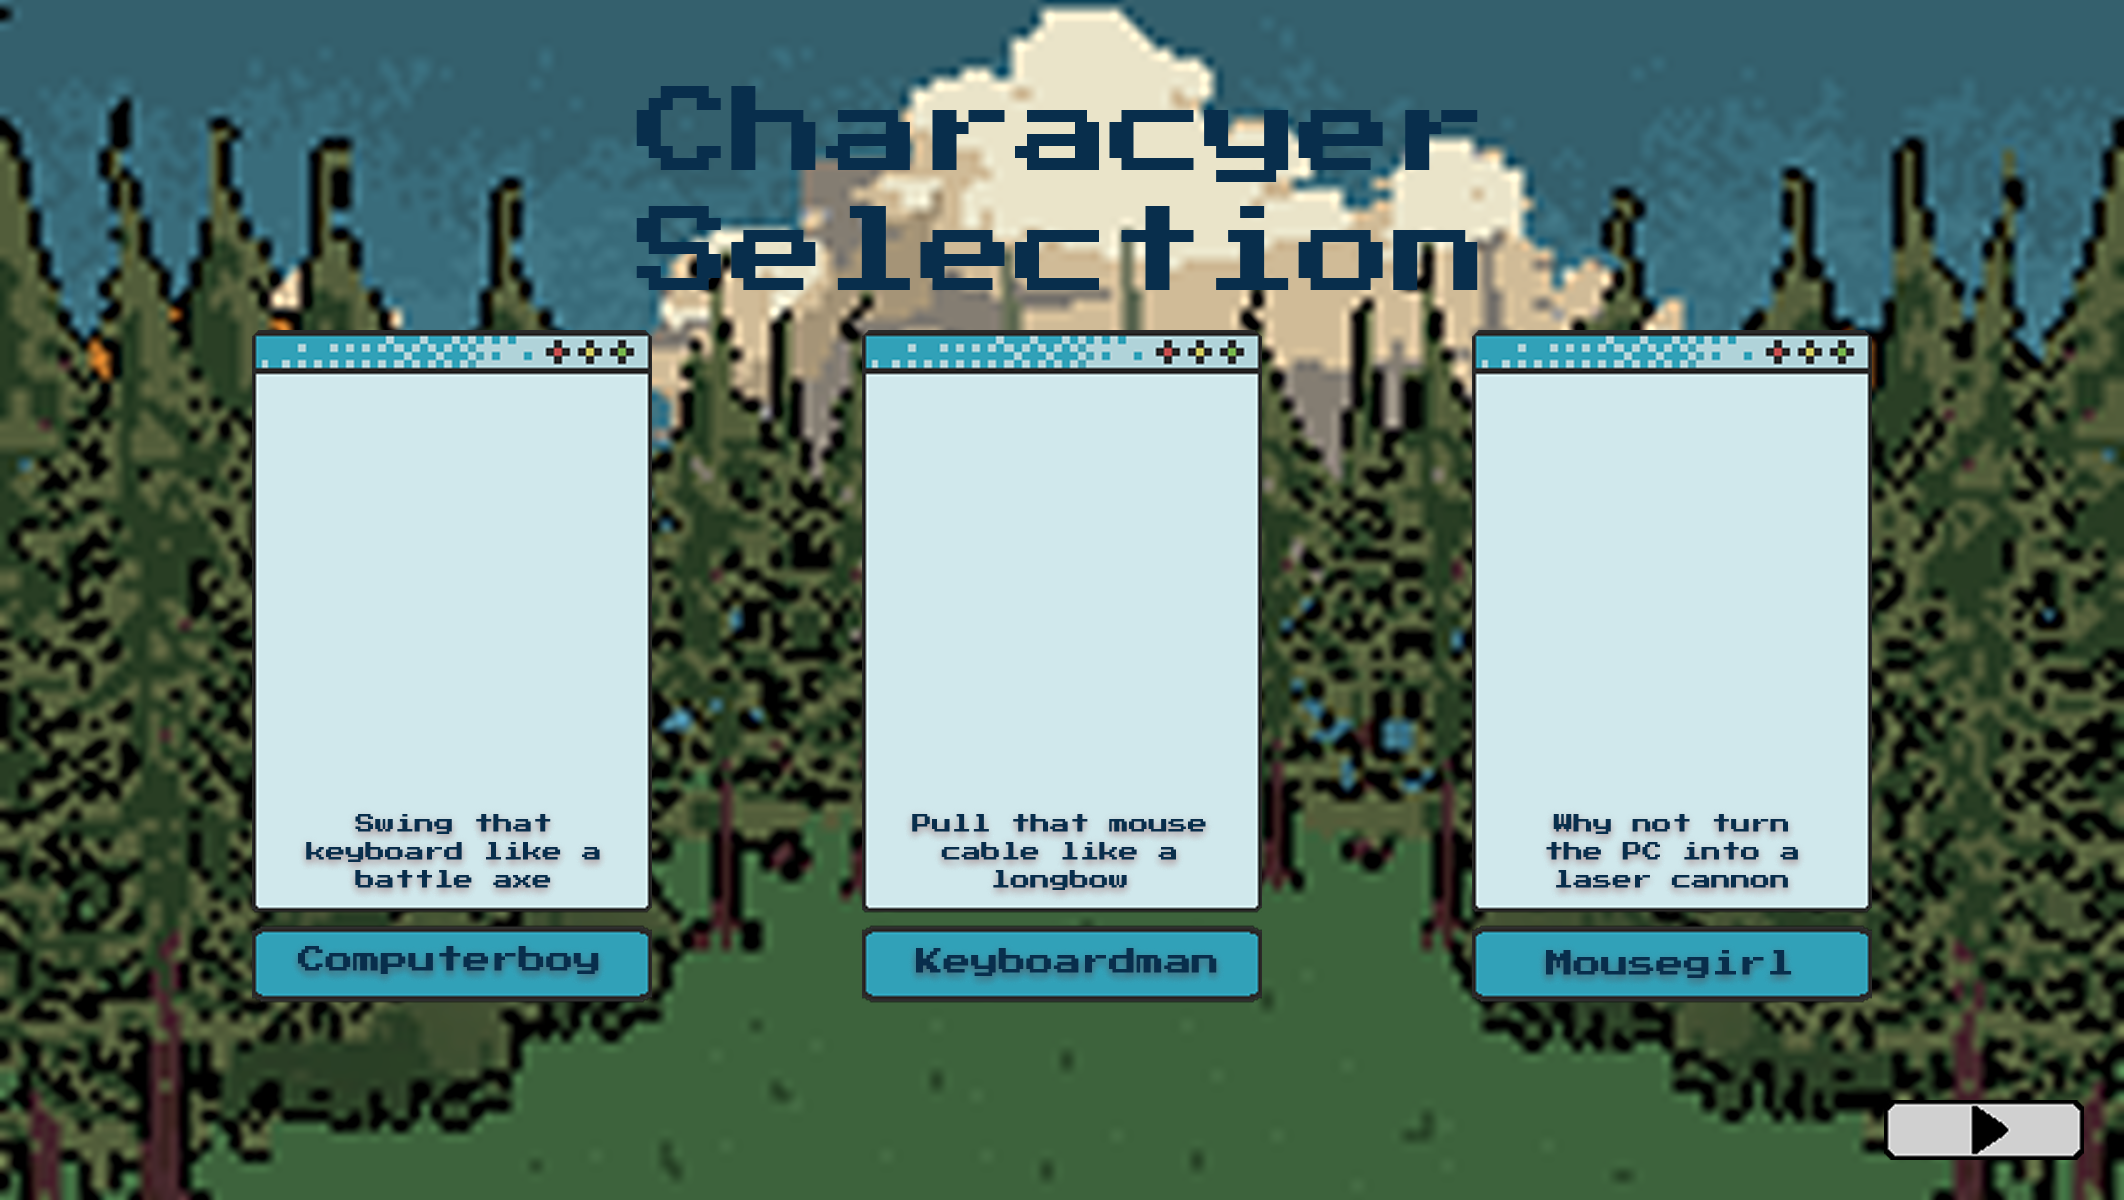
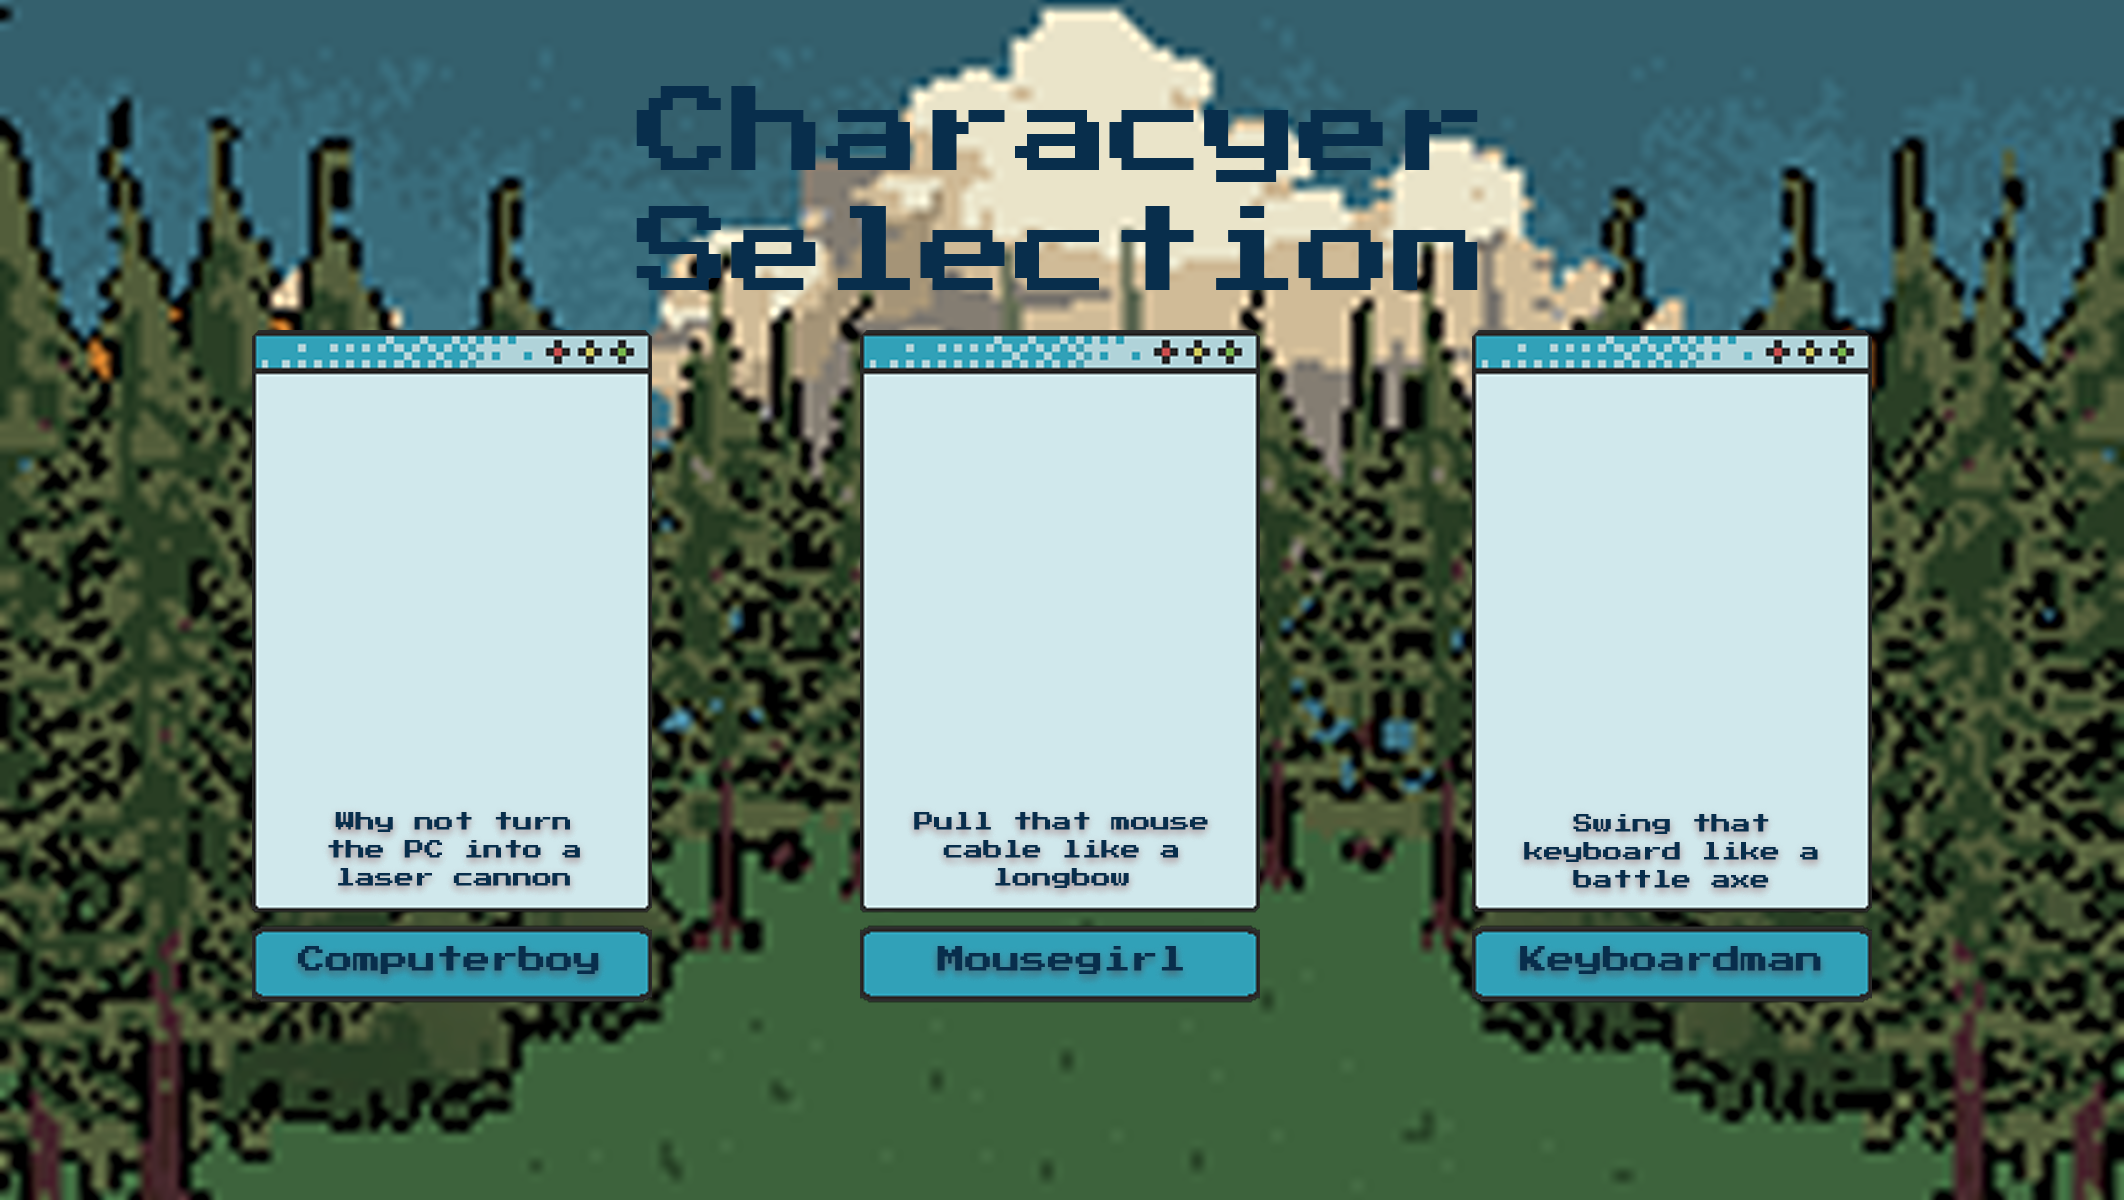
update

diff --git a/docs/Function.js b/docs/Function.js
@@ -716,37 +716,7 @@ function displayStoryPage5() {
 }
 
 function displayVictoryPage1() {
-  image(story1, 0, 0, width, height);
-
-  buttonW = 100;
-  buttonH = 30;
-  buttonX = width - buttonW - 20; // 距离右侧 20 像素
-  buttonY = height - buttonH - 20; // 距离底部 20 像素
-  fill(0, 0, 255); // 按钮颜色（蓝色）
-  rect(buttonX, buttonY, buttonW, buttonH, 10); // 圆角按钮
-
-  fill(255); // 文字颜色（白色）
-  textSize(15);
-  text("Next", buttonX + buttonW / 2, buttonY + buttonH / 2);
-}
-
-function displayVictoryPage2() {
-  image(story2, 0, 0, width, height);
-
-  buttonW = 100;
-  buttonH = 30;
-  buttonX = width - buttonW - 20; // 距离右侧 20 像素
-  buttonY = height - buttonH - 20; // 距离底部 20 像素
-  fill(0, 0, 255); // 按钮颜色（蓝色）
-  rect(buttonX, buttonY, buttonW, buttonH, 10); // 圆角按钮
-
-  fill(255); // 文字颜色（白色）
-  textSize(15);
-  text("Next", buttonX + buttonW / 2, buttonY + buttonH / 2);
-}
-
-function displayVictoryPage3() {
-  image(story3, 0, 0, width, height);
+  image(victoryStory, 0, 0, width, height);
 
   buttonW = 100;
   buttonH = 30;
@@ -775,10 +745,10 @@ function displayGuidePage() {
 
 function displayPauseMenu() {
   push();
-  textSize(20);
+  image(pausePage,0,0,width,height);
+  textSize(25);
   fill(255);
   textAlign(CENTER, CENTER);
-  text("Game Paused", width / 2, height / 3);
 
   // 计算并显示暂停时间
   let pausedTime = floor((millis() - pauseStartTime) / 1000);
@@ -858,33 +828,32 @@ function generateInitialObstacles() {
 
 // ===== 升级界面 =====
 function drawUpgradeScreen() {
+  image(skillPage,0,0,width,height);
   fill(0, 0, 0, 200);
-  rect(0, 0, width, height);
   fill(255);
   textSize(32);
   textAlign(CENTER);
-  text("Upgrade! Choose one option", width / 2, height / 4);
 
   for (let i = 0; i < upgradeOptions.length; i++) {
     let x = width / 4 + (i * width) / 4;
     let y = height / 2;
     let option = upgradeOptions[i];
-    fill(60, 60, 60);
+    fill(60, 60, 60, 150);
     if (
       mouseX > x - 100 &&
       mouseX < x + 100 &&
       mouseY > y - 50 &&
-      mouseY < y + 50
+      mouseY < y + 150
     ) {
       fill(80, 80, 80);
     }
-    rect(x - 100, y - 50, 200, 100, 10);
+    rect(x - 100, y - 50, 200, 200, 10);
     fill(255);
+    textSize(22);
+    text(option.name, x, y);
     textSize(20);
-    text(option.name, x, y - 20);
-    textSize(16);
     textWrap(WORD);
-    text(option.description, x - 100, y + 20, 200);
+    text(option.description, x - 100, y + 70, 200);
   }
   textAlign(LEFT);
 }
@@ -1802,22 +1771,13 @@ class Pet3 {
 // 添加游戏胜利界面相关内容
 function displayVictoryScreen() {
   background(0, 150);
+  image(victoryPage,0,0,width,height);
   fill(255);
   textAlign(CENTER, CENTER);
-  textSize(32);
-  text("🎉 Victory! 🎉", width / 2, height / 4);
 
-  textSize(20);
-  text(`Level: ${finalStats.level}`, width / 2, height / 3);
-  text(`Normal Enemies Defeated: ${finalStats.normalEnemies}`, width / 2, height / 3 + 30);
-  text(`Bosses Defeated: ${finalStats.bosses}`, width / 2, height / 3 + 60);
-  text(`Attack Power: ${finalStats.attackPower}`, width / 2, height / 3 + 90);
-  text(`Attack Speed: ${finalStats.attackSpeed}`, width / 2, height / 3 + 120);
-  text(`Attack Damage: ${finalStats.attackDamage}`, width / 2, height / 3 + 150);
-
-  for (let i = 0; i < victoryButtons.length; i++) {
-    victoryButtons[i].display(); // 显示每个按钮
-  }
+  textSize(25);
+  text(`Normal Enemies Defeated: ${finalStats.normalEnemies}`, width / 2, height / 3 + 200);
+  text(`Bosses Defeated: ${finalStats.bosses}`, width / 2, height / 3 + 230);
 }
 
 // 创建按钮

diff --git a/docs/Main.js b/docs/Main.js
@@ -203,6 +203,9 @@ function preload() {
   mainMenuPage = loadImage("./assets/selected_images/page/MainMenu.png");
   characterChoose = loadImage("./assets/selected_images/page/characterPage.png");
   guidePage = loadImage("./assets/selected_images/guide/guide.png");
+  pausePage = loadImage("./assets/selected_images/page/pause.png");
+  skillPage = loadImage("./assets/selected_images/page/skill.png");
+  victoryPage = loadImage("./assets/selected_images/page/victory.png");
   // maps
   level1map = loadImage("./assets/selected_images/maps/level1.png");
   level2map = loadImage("./assets/selected_images/maps/level2.png");
@@ -213,6 +216,7 @@ function preload() {
   story3 = loadImage("./assets/selected_images/story/story3.png");
   story4 = loadImage("./assets/selected_images/story/story4.png");
   story5 = loadImage("./assets/selected_images/story/story5.png");
+  victoryStory = loadImage("./assets/selected_images/story/victoryStory.png");
   // display Character
   gunnerpic = loadImage("./assets/selected_images/characters/intro/computerboy_intro.gif");
   archerpic = loadImage("./assets/selected_images/characters/intro/mousegirl_intro.gif");
@@ -469,12 +473,6 @@ function draw() {
       break;
     case "vStory":
       displayVictoryPage1();
-      break;
-    case "vStory1":
-      displayVictoryPage2();
-      break;
-    case "vStory2":
-      displayVictoryPage3();
       break;
   }
 

diff --git a/docs/Enemy.js b/docs/Enemy.js
@@ -489,8 +489,8 @@ class BirdBoss extends Boss {
     this.birdBossAction = birdBossAction;
     
     // Boss 属性设置（可根据需求调整数值）
-    this.health = 800;
-    this.maxHealth = 800;
+    this.health = 8; 
+    this.maxHealth = 8;
     this.size = 150; // 从200减小到150
     this.speed = 2.5;
     this.attackRange = 150;
@@ -1850,8 +1850,8 @@ class BugBoss extends Enemy {
     super(true, "boss", commonEnemyAction, 40, 40);
 
     // 基本属性
-    this.health = 800;  // 设置血量为800
-    this.maxHealth = 800;  // 最大血量也设为800
+    this.health = 8;  // 设置血量为800
+    this.maxHealth = 8;  // 最大血量也设为800
     this.radius = 30;
     this.speed = 2;
     this.damage = 20;

diff --git a/docs/Event.js b/docs/Event.js
@@ -20,13 +20,7 @@ function mouseClicked() {
     gameState = "game";
   } else if (gameState == "vStory" && mouseX > buttonX && mouseX < buttonX + buttonW &&
     mouseY > buttonY && mouseY < buttonY + buttonH) {
-    gameState = "vStory1";
-  } else if (gameState == "vStory1" && mouseX > buttonX && mouseX < buttonX + buttonW &&
-    mouseY > buttonY && mouseY < buttonY + buttonH) {
-    gameState = "vStory2";
-  } else if (gameState == "vStory2" && mouseX > buttonX && mouseX < buttonX + buttonW &&
-    mouseY > buttonY && mouseY < buttonY + buttonH) {
-    gameState = "victory";
+    gameState = "victory"
   }
 }
 
